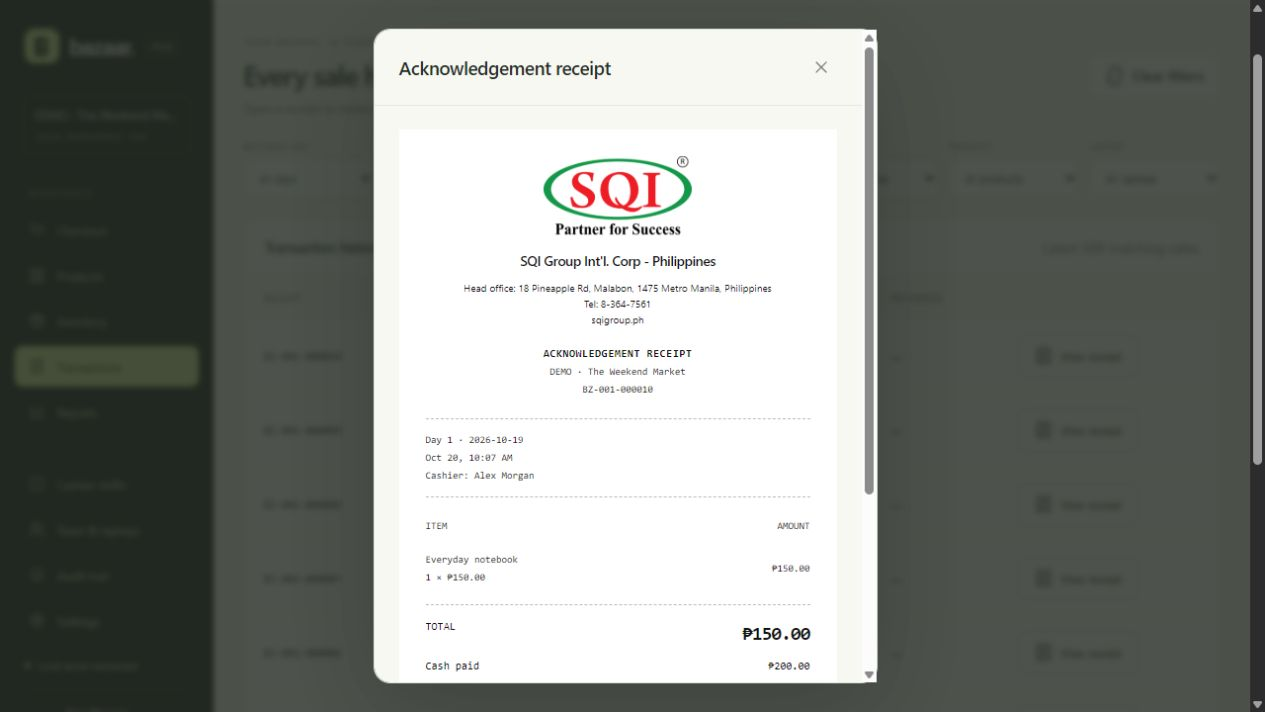
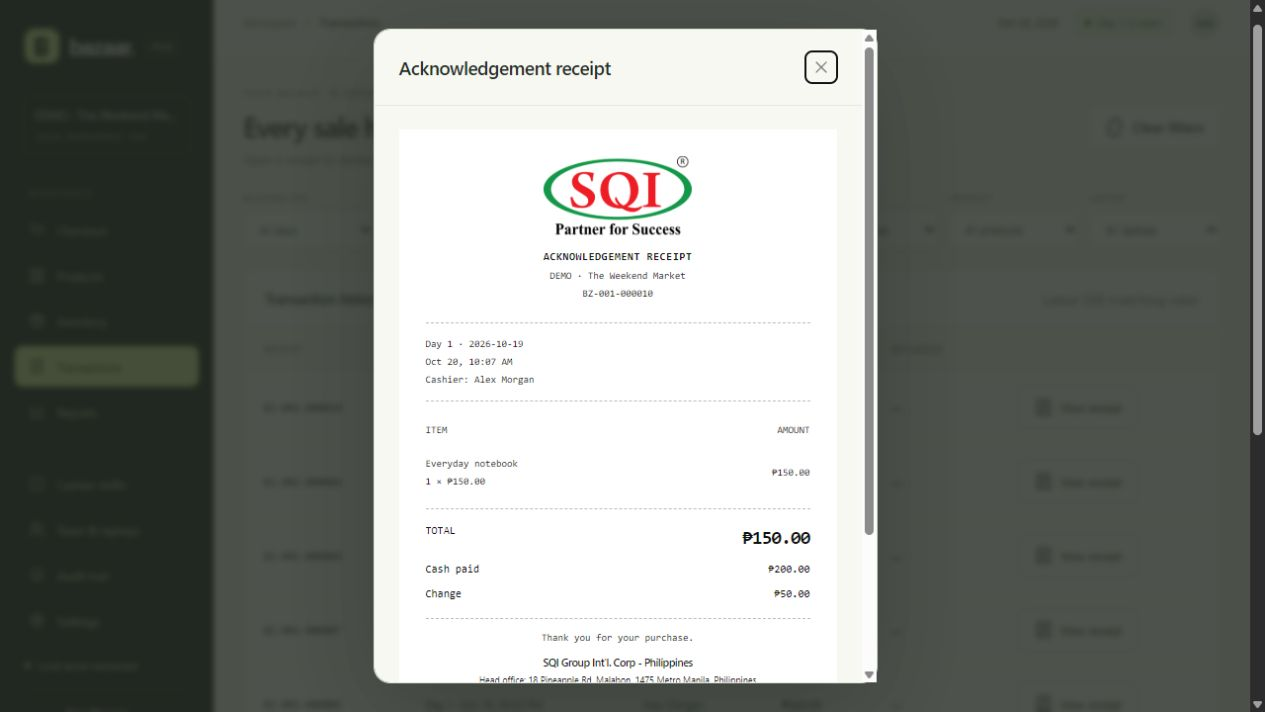
Move company details into a compact receipt footer

diff --git a/static/app.css b/static/app.css
@@ -5,7 +5,7 @@
 .shell{display:grid;grid-template-columns:216px minmax(0,1fr);min-height:100vh}.sidebar{height:100vh;position:sticky;top:0;background:var(--ink);color:#d2d7cd;display:flex;flex-direction:column;padding:29px 15px 20px}.brand{display:flex;align-items:center;gap:10px;padding:0 10px;color:#fff;text-decoration:none;font-size:23px;font-weight:600;letter-spacing:-1px}.brand img{width:35px;height:35px}.brand small{font-size:10px;border:1px solid #56604f;border-radius:4px;padding:3px 5px;letter-spacing:1px;color:#b7c0ad;margin-left:3px}.workspace{margin:32px 8px 24px;border:1px solid #495044;border-radius:9px;padding:11px;font-size:12px}.workspace span{display:block;white-space:nowrap;text-overflow:ellipsis;overflow:hidden;margin-bottom:5px}.workspace small{color:#8d9b81;font-size:10px}.nav-label{font-size:9px;letter-spacing:1.6px;color:#8c9885;padding:0 14px;margin:8px 0 11px}.nav{display:flex;flex-direction:column;gap:5px}.nav button{display:flex;align-items:center;gap:12px;background:transparent;color:#b9c2b2;text-align:left;border-radius:8px;padding:12px 14px;font-size:12px}.nav button:hover{background:#343e31}.nav button.active{background:var(--green);color:var(--ink)}.nav .icon{width:17px;height:17px}.nav-gap{height:22px}.side-foot{margin-top:auto;padding:18px 10px 0}.local-status{font-size:10px;display:flex;align-items:center;gap:7px;color:#b6c49f;margin-bottom:17px}.side-user{display:flex;align-items:center;gap:9px;padding-top:15px;border-top:1px solid #424b3b}.avatar{display:flex;align-items:center;justify-content:center;border-radius:50%;background:#e5ebd9;color:#4d5b3e;font-weight:600;font-size:12px;width:32px;height:32px;flex-shrink:0}.side-user .avatar{background:#424b3b;color:#d9ed9a}.side-user strong{display:block;font-size:11px;font-weight:500}.side-user small{font-size:10px;color:#8e9a84}.side-user .icon-btn{margin-left:auto;color:#9da991}.main{min-width:0}.topbar{height:72px;display:flex;align-items:center;justify-content:space-between;border-bottom:1px solid var(--line);padding:0 30px;background:#fff9}.breadcrumb{font-size:11px;color:var(--muted);display:flex;align-items:center;gap:10px}.breadcrumb b{color:var(--ink);font-weight:500}.top-right{display:flex;align-items:center;gap:16px;font-size:11px}.top-right .pill{padding:6px 10px}.top-right .icon{width:15px;height:15px}.page{padding:29px 30px}.page-heading{display:flex;align-items:center;justify-content:space-between;margin-bottom:25px;gap:16px}.page-heading p{color:var(--muted);font-size:12px;margin-top:7px}.actions{display:flex;align-items:center;gap:9px}.eyebrow{font-size:9px;letter-spacing:1.7px;text-transform:uppercase;color:var(--muted);margin-bottom:9px}.checkout-layout{display:grid;grid-template-columns:minmax(0,1fr) 338px;gap:23px;align-items:start}.shop-panel{min-width:0}.search-row{display:flex;gap:10px;margin-bottom:18px}.search{position:relative;flex:1}.search .icon{position:absolute;left:13px;top:12px;width:17px;height:17px;color:#90988a}.search input{padding-left:39px;padding-right:48px;height:43px;font-size:12px}.search kbd{position:absolute;right:13px;top:13px;font-size:10px;color:#a1a59a;border:1px solid var(--line);border-radius:3px;padding:1px 5px}.category-tabs{display:flex;gap:8px;overflow:auto;padding-bottom:5px;margin-bottom:21px}.category-tabs button{padding:8px 14px;border-radius:7px;white-space:nowrap;background:white;border:1px solid var(--line);font-size:11px;color:#737b6c}.category-tabs button.active{background:var(--ink);border-color:var(--ink);color:white}.category-tabs button span{font-size:10px;margin-left:7px;color:#9da98d}.section-line{display:flex;justify-content:space-between;align-items:center;font-size:11px;margin-bottom:13px}.section-line strong{font-size:12px;font-weight:500}.section-line span{color:var(--muted);font-size:10px}.product-grid{display:grid;grid-template-columns:repeat(3,minmax(0,1fr));gap:13px}.product-card{text-align:left;background:#fff;border:1px solid var(--line);border-radius:12px;padding:9px;transition:transform .15s,border-color .15s;position:relative;min-width:0}.product-card:hover{border-color:#99ac7d;transform:translateY(-2px)}.product-card.sold-out{opacity:.55}.product-visual{height:134px;background:var(--tile,#f0eee3);border-radius:7px;display:flex;align-items:center;justify-content:center;overflow:hidden;position:relative}.product-visual img{width:100%;height:100%;object-fit:cover}.product-visual>.icon{width:65px;height:65px;stroke-width:1;color:#777f5c;filter:drop-shadow(0 6px 2px #0001)}.stock-badge{position:absolute;top:7px;left:7px;background:#ffffffdc;border-radius:4px;padding:4px 6px;font-size:9px;color:#64734e}.stock-badge.low{color:#a25c34}.product-detail{padding:11px 3px 3px}.product-detail .eyebrow{font-size:8px;letter-spacing:1px;margin-bottom:5px}.product-detail h3{font-size:11px;font-weight:500;line-height:1.4;overflow:hidden;text-overflow:ellipsis;white-space:nowrap}.product-bottom{display:flex;align-items:center;justify-content:space-between;margin-top:12px}.product-bottom strong{font-size:13px;font-weight:600}.product-bottom small{font-size:9px;color:var(--muted);font-weight:400}.add-badge{width:25px;height:25px;background:#f2f6e9;border:1px solid #e2eacc;border-radius:6px;display:flex;align-items:center;justify-content:center;color:#6c7a54;font-size:19px;font-weight:300}.stock-note{font-size:10px;color:var(--muted);margin-top:19px;display:flex;align-items:center;gap:7px}.stock-note .icon{width:13px;height:13px}.cart{background:white;border:1px solid var(--line);border-radius:13px;overflow:hidden;position:sticky;top:20px}.cart-header{padding:19px;display:flex;align-items:center;justify-content:space-between;border-bottom:1px solid var(--line)}.cart-header h2{font-size:16px;display:flex;align-items:center;gap:8px}.count-bubble{font-size:10px;font-weight:500;background:#f0f2e9;border-radius:5px;padding:4px 6px}.cart-ticket{padding:12px 19px;background:#fcfcf9;border-bottom:1px dashed var(--line);display:flex;align-items:center;justify-content:space-between;font-size:10px;color:var(--muted)}.cart-lines{padding:2px 18px;min-height:210px;max-height:380px;overflow:auto}.cart-line{padding:17px 0;border-bottom:1px solid #f0f1ec;display:grid;grid-template-columns:40px 1fr auto;gap:10px;align-items:start}.cart-line:last-child{border:0}.cart-thumb{width:40px;height:43px;display:flex;align-items:center;justify-content:center;border-radius:6px;background:#f1f0e6;overflow:hidden;color:#7e8868}.cart-thumb img{width:100%;height:100%;object-fit:cover}.cart-line h3{font-size:11px;font-weight:500;line-height:1.45}.cart-line small{font-size:9px;color:var(--muted)}.cart-line>strong{font-size:11px;font-weight:500;margin-top:2px}.qty-control{display:inline-flex;align-items:center;border:1px solid var(--line);border-radius:5px;margin-top:9px;height:24px}.qty-control button{width:24px;height:22px;background:transparent;color:#7a846d;font-size:15px}.qty-control span{min-width:24px;text-align:center;font-size:10px}.cart-empty{display:flex;align-items:center;flex-direction:column;justify-content:center;min-height:245px;text-align:center;gap:12px;color:var(--muted)}.cart-empty>.icon{width:36px;height:36px;stroke-width:1}.cart-empty p{font-size:11px;max-width:180px;line-height:1.7}.cart-summary{padding:19px;background:#fcfcf9;border-top:1px solid var(--line)}.sum-row{display:flex;justify-content:space-between;font-size:11px;color:var(--muted);margin-bottom:12px}.sum-row.total{padding-top:16px;border-top:1px dashed #dbe0d0;margin-top:15px;margin-bottom:20px;color:var(--ink);font-size:13px}.sum-row.total strong{font-size:23px;letter-spacing:-.7px;font-weight:600}.cart-summary .btn{width:100%;height:45px;font-size:12px;justify-content:space-between}.cart-summary .btn .icon{width:17px;height:17px}.cart-foot{text-align:center;color:#969d8c;font-size:9px;padding:13px 5px;border-top:1px solid var(--line)}.notice{border:1px solid #e4dfbe;background:#f9f5e5;border-radius:10px;padding:14px 17px;font-size:12px;color:#786936;line-height:1.7;display:flex;gap:12px;align-items:center;margin-bottom:20px}.notice .actions{margin-left:auto}.notice .btn{font-size:11px}.notice.error{border-color:#edd3cb;background:#fff1ed;color:#9a493a}.notice.good{background:#f0f6e4;border-color:#dfe8d0;color:#52683b}.stats{display:grid;grid-template-columns:repeat(4,minmax(0,1fr));gap:16px;margin-bottom:24px}.stat{background:white;border:1px solid var(--line);border-radius:12px;padding:19px 20px}.stat label{font-size:11px;color:var(--muted);display:flex;align-items:center;justify-content:space-between}.stat .value{font-size:27px;letter-spacing:-.7px;margin-top:13px;font-weight:500}.stat small{display:block;font-size:10px;color:var(--muted);margin-top:8px}.stat.featured{background:var(--green);border-color:var(--green)}.stat.featured label,.stat.featured small{color:#596a3c}.panel{background:white;border:1px solid var(--line);border-radius:13px;overflow:hidden;margin-bottom:20px}.panel-title{padding:19px 21px;display:flex;align-items:center;justify-content:space-between;border-bottom:1px solid var(--line)}.panel-title h2{font-size:15px}.panel-body{padding:21px}.table-scroll{overflow:auto}table{width:100%;border-collapse:collapse;text-align:left;font-size:11px;white-space:nowrap}th{text-transform:uppercase;letter-spacing:.8px;font-size:9px;font-weight:500;color:var(--muted);background:#fafbf7}th,td{padding:15px 20px;border-bottom:1px solid #edf0e7}tbody tr:last-child td{border-bottom:0}tbody tr:hover{background:#fcfdf9}td strong{font-weight:500}.right{text-align:right}.table-product{display:flex;align-items:center;gap:10px}.table-product small{display:block;font-size:9px;color:var(--muted);margin-top:4px}.filters{display:flex;gap:10px;flex-wrap:wrap;margin-bottom:20px}.filters>*{flex:1;min-width:120px;max-width:220px}.filters input,.filters select{font-size:11px;height:40px}.filters label{display:flex;flex-direction:column;gap:6px;color:var(--muted);font-size:9px;text-transform:uppercase;letter-spacing:.7px}.two-col{display:grid;grid-template-columns:1fr 1fr;gap:20px}.empty{padding:55px 22px;text-align:center;color:var(--muted);font-size:12px;line-height:1.9}.empty .icon{width:31px;height:31px;margin-bottom:10px}.empty h3{color:var(--ink);margin-bottom:7px;font-size:14px}.empty .btn{margin-top:16px}.chart-row{display:grid;grid-template-columns:135px 1fr 90px;align-items:center;gap:15px;margin-bottom:18px;font-size:11px}.chart-row label{overflow:hidden;white-space:nowrap;text-overflow:ellipsis}.bar{height:7px;border-radius:5px;background:#f0f3e9;overflow:hidden}.bar>span{display:block;background:#b0c77b;border-radius:5px;height:100%}.chart-row strong{text-align:right;font-weight:500}.list-note{font-size:10px;color:var(--muted);padding:13px 20px;border-top:1px solid var(--line)}.stack{display:grid;gap:14px}.setting-row{display:flex;justify-content:space-between;align-items:center;border-bottom:1px solid var(--line);padding:17px 0;gap:20px}.setting-row:first-child{padding-top:0}.setting-row:last-child{border:0;padding-bottom:0}.setting-row h3{font-size:12px;margin-bottom:6px}.setting-row p{font-size:11px;color:var(--muted);line-height:1.6}.audit-reason{white-space:normal;max-width:250px;line-height:1.5}
 .auth{display:grid;grid-template-columns:42% 58%;min-height:100vh}.auth-story{background:var(--ink);color:white;padding:45px;display:flex;flex-direction:column;position:relative;overflow:hidden}.auth-story .brand{padding:0}.auth-title{margin:auto 0;z-index:1}.auth-title .eyebrow{color:#c1cfab;font-size:10px}.auth-title h1{font-size:52px;line-height:1.08;letter-spacing:-2.5px;font-weight:400;max-width:410px}.auth-title h1 em{color:var(--green);font-style:normal}.auth-title p{font-size:13px;color:#b1bba5;line-height:1.9;max-width:310px;margin-top:25px}.auth-foot{font-size:10px;color:#94a585;display:flex;align-items:center;gap:8px}.auth-circle{width:320px;height:320px;position:absolute;right:-100px;bottom:15px;border:1px solid #596543;border-radius:50%}.auth-circle:after{content:'';position:absolute;inset:35px;border:1px solid #596543;border-radius:50%}.auth-form{align-self:center;width:min(430px,85%);margin:40px auto}.auth-form h2{font-size:28px;letter-spacing:-.9px;margin-bottom:10px}.auth-form>p{color:var(--muted);font-size:12px;line-height:1.7;margin-bottom:26px}.form-grid{display:grid;grid-template-columns:1fr 1fr;gap:16px}.field{display:flex;flex-direction:column;gap:7px;font-size:11px}.field.full{grid-column:1/-1}.field label{font-weight:500}.field small{font-size:10px;color:var(--muted);line-height:1.5}.field input,.field select,.field textarea{font-size:12px}.check-field{display:flex;align-items:center;gap:9px;font-size:12px}.check-field input{width:15px;height:15px}.form-error{color:var(--red);font-size:12px;line-height:1.6;min-height:5px;grid-column:1/-1}.auth-form .btn{width:100%;margin-top:8px}.auth-note{font-size:10px;color:#8f9786;text-align:center;margin-top:20px}.modal-overlay{position:fixed;inset:0;z-index:40;background:#20271fcc;backdrop-filter:blur(3px);display:flex;align-items:center;justify-content:center;padding:25px}.modal{width:min(510px,100%);background:var(--paper);border:1px solid #e0e5d5;border-radius:17px;max-height:92vh;overflow:auto;box-shadow:0 25px 100px #0003}.modal.wide{width:min(740px,100%)}.modal-head{display:flex;justify-content:space-between;align-items:center;padding:22px 25px;border-bottom:1px solid var(--line)}.modal-head h2{font-size:19px}.modal-body{padding:24px 25px}.modal-actions{display:flex;align-items:center;justify-content:flex-end;gap:10px;margin-top:23px;grid-column:1/-1}.payment-total{text-align:center;border-bottom:1px dashed #d7ddcd;padding:0 0 22px;margin-bottom:24px}.payment-total small{color:var(--muted);font-size:11px}.payment-total strong{display:block;font-size:44px;font-weight:500;letter-spacing:-1.5px;margin-top:9px}.change-line{display:flex;justify-content:space-between;background:#eef4e3;padding:17px;border-radius:9px;font-size:13px;grid-column:1/-1}.quick-cash{display:flex;gap:8px;grid-column:1/-1}.quick-cash button{flex:1;border:1px solid var(--line);border-radius:7px;padding:9px 4px;background:white;font-size:10px}.receipt-content{background:white;padding:27px;font:12px/1.8 Consolas,monospace;color:#111}.receipt-content h2{text-align:center;font-size:20px;line-height:1.4}.receipt-content p{text-align:center;font-size:10px}.receipt-meta{border-top:1px dashed #bbb;border-bottom:1px dashed #bbb;margin:20px 0 12px;padding:12px 0;font-size:10px}.receipt-content table{font-size:10px;white-space:normal}.receipt-content td,.receipt-content th{padding:8px 0;border:0;background:white;color:#111;letter-spacing:0;font-size:10px}.receipt-content .sum-row{color:#111;margin:5px 0;font-size:11px}.receipt-content .sum-row.total{margin-top:10px;padding-top:12px;border-color:#bbb}.receipt-content .sum-row.total strong{font-size:19px}.receipt-thanks{text-align:center;font-size:10px;margin-top:23px;border-top:1px dashed #bbb;padding-top:15px}.refund-line{padding:15px 0;border-bottom:1px solid var(--line);display:grid;grid-template-columns:1fr 75px 75px;gap:12px;align-items:center;font-size:11px}.refund-line input{padding:8px}.refund-line small{display:block;font-size:9px;color:var(--muted);margin-top:5px}#toast{position:fixed;bottom:25px;left:50%;transform:translateX(-50%);background:var(--ink);color:white;border-radius:10px;padding:13px 20px;font-size:12px;box-shadow:0 5px 20px #0002;z-index:60;max-width:80vw;display:none}#toast.show{display:block}#toast.error{background:#9c4437}.mobile-brand{display:none}.connection-banner{background:#fff0e8;color:#9b5234;padding:9px 30px;font-size:11px;border-bottom:1px solid #f0dbcd}.no-results{grid-column:1/-1}.image-preview{width:80px;height:80px;object-fit:cover;border-radius:9px;border:1px solid var(--line)}
 @media(min-width:1500px){.product-grid{grid-template-columns:repeat(4,minmax(0,1fr))}.product-visual{height:160px}.page{padding:34px 40px}.checkout-layout{grid-template-columns:minmax(0,1fr) 370px;gap:30px}}
-.receipt-company{text-align:center;font-family:Inter,"Segoe UI",Arial,sans-serif;break-inside:avoid}.receipt-logo{display:block;width:150px;max-width:65%;height:auto;margin:0 auto 12px;object-fit:contain}.receipt-company h2{font-size:14px;line-height:1.45;margin-bottom:8px;font-weight:600}.receipt-company p{font-size:10px;line-height:1.6;overflow-wrap:anywhere}.receipt-company a{text-decoration:none}.receipt-heading{margin-top:17px}.receipt-content .receipt-title{font-size:11px;font-weight:700;letter-spacing:.5px}.receipt-office-hours{margin-top:12px;font-size:9px;line-height:1.7}.receipt-content .sum-row,.receipt-thanks{break-inside:avoid}.receipt-content td{overflow-wrap:anywhere}.receipt-content td.right{white-space:nowrap;padding-left:10px}
+.receipt-company{text-align:center;font-family:Inter,"Segoe UI",Arial,sans-serif;break-inside:avoid;margin-top:8px}.receipt-logo{display:block;width:150px;max-width:65%;height:auto;margin:0 auto 8px;object-fit:contain}.receipt-company h2{font-size:11px;line-height:1.4;margin-bottom:4px;font-weight:600}.receipt-company p{font-size:9px;line-height:1.4;overflow-wrap:anywhere}.receipt-company a{text-decoration:none}.receipt-heading{margin-top:8px}.receipt-content .receipt-title{font-size:11px;font-weight:700;letter-spacing:.5px}.receipt-office-hours{margin-top:4px;font-size:9px;line-height:1.4}.receipt-thanks{margin-top:14px;padding-top:10px}.receipt-content .sum-row,.receipt-thanks{break-inside:avoid}.receipt-content td{overflow-wrap:anywhere}.receipt-content td.right{white-space:nowrap;padding-left:10px}
 .cart-lines{min-height:140px;max-height:clamp(140px,calc(100vh - 570px),360px)}.cart-empty{min-height:140px}
 @media(max-width:1150px){.shell{grid-template-columns:180px minmax(0,1fr)}.sidebar{padding-left:10px;padding-right:10px}.page{padding:25px 22px}.topbar{padding:0 22px}.checkout-layout{grid-template-columns:minmax(0,1fr) 300px;gap:17px}.product-grid{grid-template-columns:repeat(2,minmax(0,1fr))}.product-visual{height:125px}.stats{gap:10px}.stat{padding:16px}.stat .value{font-size:22px}.top-right{gap:9px}}
 @media(max-width:850px){.shell{grid-template-columns:68px minmax(0,1fr)}.sidebar{padding:23px 9px}.brand{padding:0;justify-content:center}.brand>span,.brand>small,.workspace,.nav-label,.nav button>span,.side-user>div:not(.avatar),.side-user>.icon-btn,.local-status,.side-foot>small{display:none}.nav{margin-top:30px}.nav button{padding:13px;justify-content:center}.nav-gap{height:0}.side-foot{padding:15px 7px}.side-user{padding-top:15px}.side-user .avatar{width:30px;height:30px}.top-right .date-label{display:none}.checkout-layout{grid-template-columns:minmax(0,1fr) 285px}.page{padding:23px 18px}.page-heading{align-items:flex-start}.page-heading h1{font-size:24px}.page-heading>.actions .btn{font-size:11px}.two-col{grid-template-columns:1fr}.stats{grid-template-columns:repeat(2,minmax(0,1fr))}.auth-story{padding:30px}.auth-title h1{font-size:39px}.auth{grid-template-columns:38% 62%}}

diff --git a/static/app.js b/static/app.js
@@ -153,10 +153,11 @@ async function paymentModal(){
   });
 }
 function requireClient(condition,message){if(!condition)throw new Error(message);}
-function receiptCompanyHeader(){return `<header class="receipt-company"><img class="receipt-logo" src="/static/sqi-logo.png" alt="SQI logo" width="5442" height="3064"><h2>SQI Group Int'l. Corp - Philippines</h2><p>Head office: 18 Pineapple Rd, Malabon, 1475 Metro Manila, Philippines</p><p>Tel: 8-364-7561</p><p><a href="https://sqigroup.ph/" target="_blank" rel="noopener noreferrer">sqigroup.ph</a></p></header>`;}
+function receiptCompanyHeader(){return `<header><img class="receipt-logo" src="/static/sqi-logo.png" alt="SQI logo" width="5442" height="3064"></header>`;}
+function receiptCompanyFooter(){return `<footer class="receipt-company"><h2>SQI Group Int'l. Corp - Philippines</h2><p>Head office: 18 Pineapple Rd, Malabon, 1475 Metro Manila, Philippines</p><p>Tel: 8-364-7561</p><p>Website: <a href="https://sqigroup.ph" target="_blank" rel="noopener noreferrer">https://sqigroup.ph</a></p><div class="receipt-office-hours">Office Hours: 9:00 AM – 6:00 PM<br>Monday – Saturday</div></footer>`;}
 async function showReceipt(sid){
   const r=await api('/sales/'+sid);currentReceipt=r;const s=r.sale,p=r.payment;
-  modal('Acknowledgement receipt',`<div class="receipt-content">${receiptCompanyHeader()}<div class="receipt-heading"><p class="receipt-title">ACKNOWLEDGEMENT RECEIPT</p><p>${e(s.bazaar_name)}</p><p>${e(s.receipt_number)}</p></div><div class="receipt-meta">Day ${s.day_number} · ${e(s.business_date)}<br>${e(timestamp(s.completed_at))}<br>Cashier: ${e(s.display_name)}</div><table><thead><tr><th>ITEM</th><th class="right">AMOUNT</th></tr></thead><tbody>${r.lines.map(l=>`<tr><td>${e(l.description_snapshot)}<br>${l.quantity} × ${money(l.unit_price_minor)}</td><td class="right">${money(l.line_total_minor)}</td></tr>`).join('')}</tbody></table><div class="sum-row total"><span>TOTAL</span><strong>${money(s.total_minor)}</strong></div><div class="sum-row"><span>Cash paid</span><span>${money(p.tendered_minor)}</span></div><div class="sum-row"><span>Change</span><span>${money(p.change_minor)}</span></div><div class="receipt-thanks">Thank you for your purchase.<div class="receipt-office-hours"><strong>Office Hours</strong><br>9:00 AM – 6:00 PM<br>Monday – Saturday</div></div></div>${r.corrections.length?`<div class="receipt-extra notice">${r.corrections.length} correction(s) linked · ${money(r.corrections.reduce((a,c)=>a+c.refund_total_minor,0))} refunded</div>`:''}<div class="modal-actions">${S.user.role==='manager'?button('Return / void','return-sale','light','refresh',`data-id="${sid}"`):''}${button('Print / save PDF','print-receipt','green','print',`data-id="${sid}"`)}</div>`);currentReceipt=r;
+  modal('Acknowledgement receipt',`<div class="receipt-content">${receiptCompanyHeader()}<div class="receipt-heading"><p class="receipt-title">ACKNOWLEDGEMENT RECEIPT</p><p>${e(s.bazaar_name)}</p><p>${e(s.receipt_number)}</p></div><div class="receipt-meta">Day ${s.day_number} · ${e(s.business_date)}<br>${e(timestamp(s.completed_at))}<br>Cashier: ${e(s.display_name)}</div><table><thead><tr><th>ITEM</th><th class="right">AMOUNT</th></tr></thead><tbody>${r.lines.map(l=>`<tr><td>${e(l.description_snapshot)}<br>${l.quantity} × ${money(l.unit_price_minor)}</td><td class="right">${money(l.line_total_minor)}</td></tr>`).join('')}</tbody></table><div class="sum-row total"><span>TOTAL</span><strong>${money(s.total_minor)}</strong></div><div class="sum-row"><span>Cash paid</span><span>${money(p.tendered_minor)}</span></div><div class="sum-row"><span>Change</span><span>${money(p.change_minor)}</span></div><div class="receipt-thanks">Thank you for your purchase.</div>${receiptCompanyFooter()}</div>${r.corrections.length?`<div class="receipt-extra notice">${r.corrections.length} correction(s) linked · ${money(r.corrections.reduce((a,c)=>a+c.refund_total_minor,0))} refunded</div>`:''}<div class="modal-actions">${S.user.role==='manager'?button('Return / void','return-sale','light','refresh',`data-id="${sid}"`):''}${button('Print / save PDF','print-receipt','green','print',`data-id="${sid}"`)}</div>`);currentReceipt=r;
   await $('.receipt-logo').decode().catch(()=>{});
 }
 function openDay(){const today=new Intl.DateTimeFormat('en-CA',{timeZone:S.bazaar.timezone,year:'numeric',month:'2-digit',day:'2-digit'}).format(new Date());formModal('Open the next bazaar day',field('Business date','business_date','date',today,'required')+approval(),async data=>{await api('/days/open','POST',data);closeModal();await boot();toast('The bazaar day is open.');},'Open day');}

diff --git a/docs/verification.md b/docs/verification.md
@@ -44,9 +44,9 @@ Also checked the stock movement form: **Stock in** and **Opening stock** label t
 
 ![Stock-in with an optional reason](screenshots/stock-reason.png)
 
-On 2026-10-20, checked SQI receipt branding against saved demo receipt `BZ-001-000010`. The supplied local PNG loaded at its original 5442 × 3064 resolution and displayed at 150 px wide. Verified the company name, full head office address, telephone, website link, office hours, and existing receipt/payment details. The dialog opens at the company header; its footer remains available by scrolling. The production host served the logo successfully with HTTP 200. JavaScript syntax and whitespace checks passed. This presentation change did not rerun the 27-test integration suite recorded above.
+On 2026-10-20, checked SQI receipt branding against saved demo receipt `BZ-001-000010`. The supplied local PNG loaded at its original 5442 × 3064 resolution and displayed at 150 px wide. Verified the company name, full head office address, telephone, website link, office hours, and existing receipt/payment details. The dialog opens at the logo; the company details now appear in a compact footer below the totals. Verified the visible label `Website: https://sqigroup.ph` and its HTTPS destination. The production host served the logo successfully with HTTP 200. JavaScript syntax and whitespace checks passed. These presentation changes did not rerun the 27-test integration suite recorded above.
 
-The company header and office-hours footer are inside the same receipt content used by the existing 80 mm print stylesheet. Actual printer/PDF pagination remains an equipment check.
+The logo header and compact company footer are inside the same receipt content used by the existing 80 mm print stylesheet. Actual printer/PDF pagination remains an equipment check.
 
 ![SQI acknowledgement receipt header](screenshots/sqi-receipt.png)
 

diff --git a/docs/operations.md b/docs/operations.md
@@ -49,7 +49,7 @@ Use one ticket per physical customer purchase. One ticket can produce only one s
 
 ### Acknowledgement receipt branding
 
-Receipts and their print/PDF layout show the supplied SQI logo, **SQI Group Int'l. Corp - Philippines**, telephone **8-364-7561**, head office **18 Pineapple Rd, Malabon, 1475 Metro Manila, Philippines**, and **https://sqigroup.ph/**. The footer lists office hours **9:00 AM – 6:00 PM, Monday – Saturday**. The bazaar name, receipt number, day, cashier, items, totals, cash, and change remain on each receipt.
+Receipts and their print/PDF layout show the supplied SQI logo at the top. A compact footer below the totals shows **SQI Group Int'l. Corp - Philippines**, head office **18 Pineapple Rd, Malabon, 1475 Metro Manila, Philippines**, telephone **8-364-7561**, **Website: https://sqigroup.ph**, and office hours **9:00 AM – 6:00 PM, Monday – Saturday**. The bazaar name, receipt number, day, cashier, items, totals, cash, and change remain on each receipt.
 
 The logo is bundled at `static/sqi-logo.png`, so displaying or printing it needs no connection to the source network share or internet. The same receipt layout is used when viewing saved receipts and requesting a print/PDF copy. Printing waits for the logo image to decode. Check the final paper layout on the actual receipt printer.
 
